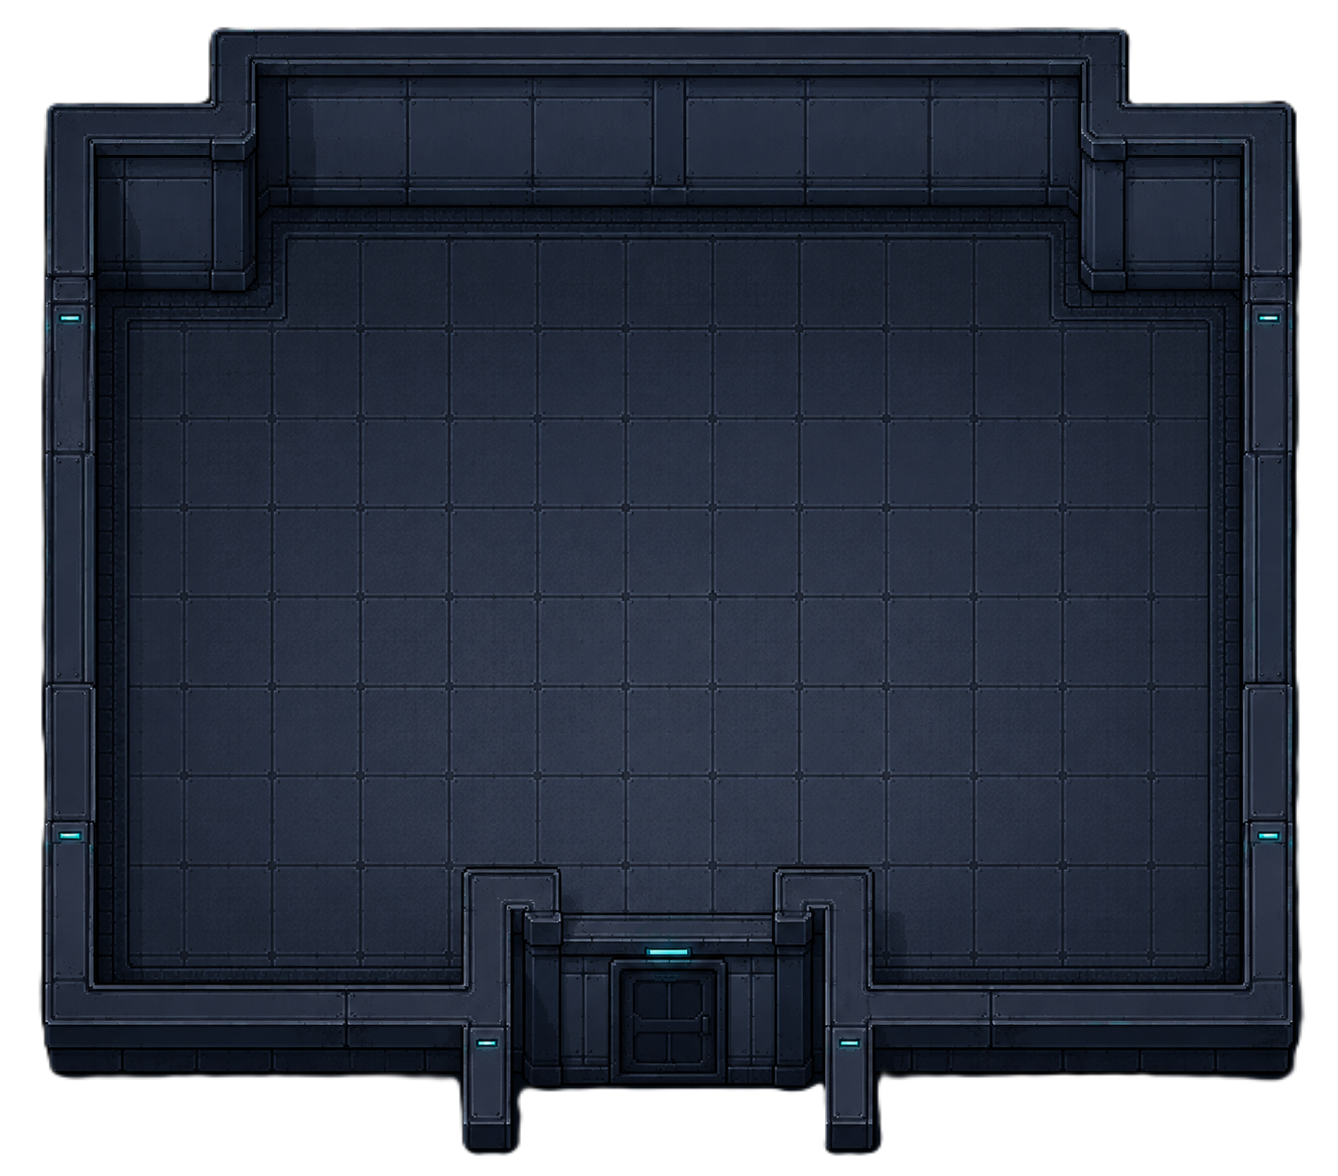
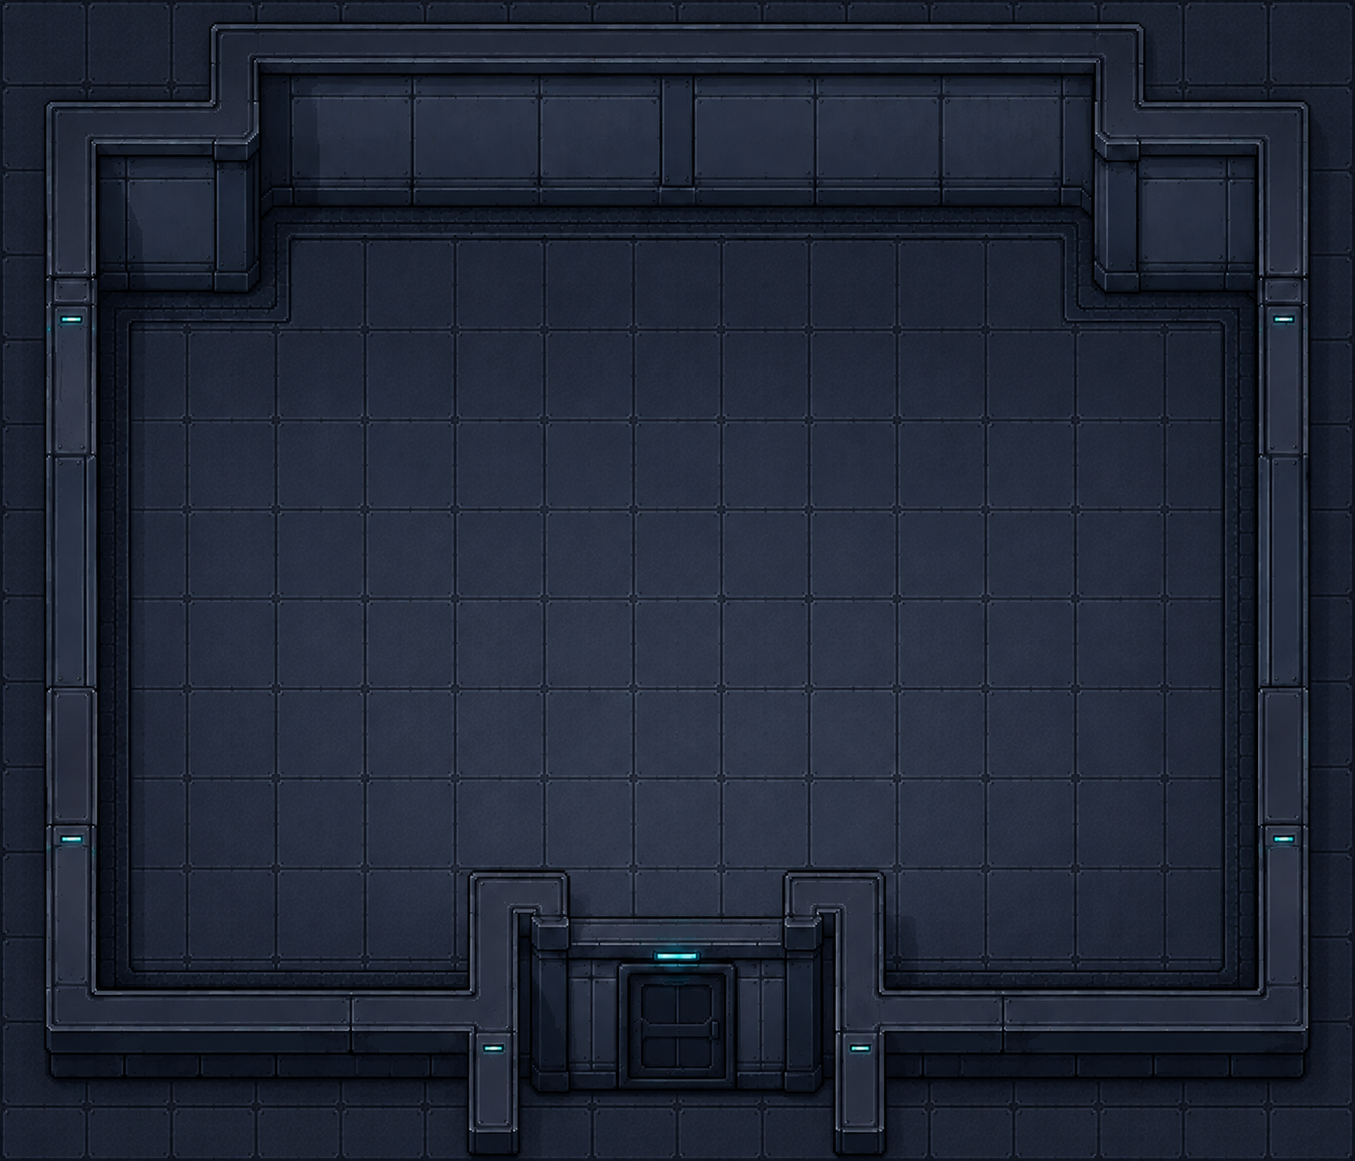
序章背景圖片載入

diff --git a/game_home.py b/game_home.py
@@ -512,12 +512,10 @@ def draw_dialogue_background(
 
         return
 
-    # 第一章選擇結果仍使用307病房
+    # 第一章各選項的結果對話使用純黑背景
     if dialogue_id == "scene_04_choice_result":
 
-        game_ui.draw_room_307(
-            surface
-        )
+        surface.fill((0, 0, 0))
 
         return
 
@@ -2205,12 +2203,14 @@ while running:
             # 場景背景與對話框分開依序繪製
             draw_dialogue_background(screen, mouse_pos, draw_player=not hide_player_this_frame)
 
-            draw_dialogue_box(
-                screen,
-                dialogue_controller,
-                game_ui.font_ui,
-                game_ui.font_ui
-            )
+            line = dialogue_controller.get_current_line() or {}  # 取得當前節點的對話框設定
+            if dialogue_controller.dialogue_id != "intro" or not line.get("hide_dialogue_box", False):
+                draw_dialogue_box(  # 純畫面序章節點略過對話框繪製
+                    screen,
+                    dialogue_controller,
+                    game_ui.font_ui,
+                    game_ui.font_ui
+                )
 
             if dialogue_controller.dialogue_id != "scene_14":
                 settings_button_rect = game_ui.draw_settings_button(screen, mouse_pos)
@@ -2222,9 +2222,9 @@ while running:
 
         elif game.game_state == CHOICE:
 
-            game_ui.draw_room_307(
-                screen
-            )
+            choice_data = story_manager.dialogues.get(choice_controller.choice_id, {})  # 讀取目前選擇場景的版面資料
+            if not game_ui.draw_background_asset(screen, choice_data.get("background")):
+                game_ui.draw_room_307(screen)  # 無背景素材時沿用病房畫面
 
             choice_rects = (
                 draw_choice_panel(

diff --git a/ui/game_ui.py b/ui/game_ui.py
@@ -723,50 +723,15 @@ class GameUI:
         screen,
         dialogue_controller
     ):
-        """依照序章進度顯示簡易背景。"""
+        """依目前序章節點繪製全畫面背景。"""
 
-        index = dialogue_controller.current_index
+        line = dialogue_controller.get_current_line() or {}  # 讀取節點資料並處理對話結束
+        background = line.get("background")  # 使用資料設定的序章圖片路徑
+        if line.get("background_mode") != "black" and background:
+            if self.draw_background_asset(screen, background):  # 沿用素材快取與全畫面縮放
+                return
 
-        if index <= 2:
-            screen.fill(
-                (28, 32, 45)
-            )
-
-            label = (
-                "研究所 / Background Placeholder"
-            )
-
-        elif index <= 5:
-            screen.fill(
-                (90, 94, 102)
-            )
-
-            label = (
-                "醫院走廊 / Background Placeholder"
-            )
-
-        else:
-            self.draw_room_307(
-                screen
-            )
-
-            return
-
-        label_surface = self.font_large.render(
-            label,
-            True,
-            (220, 220, 225)
-        )
-
-        screen.blit(
-            label_surface,
-            label_surface.get_rect(
-                center=(
-                    screen.get_width() // 2,
-                    90
-                )
-            )
-        )
+        screen.fill((0, 0, 0))  # 純黑節點或素材缺失時清空畫面
 
 
     # ========================================================
